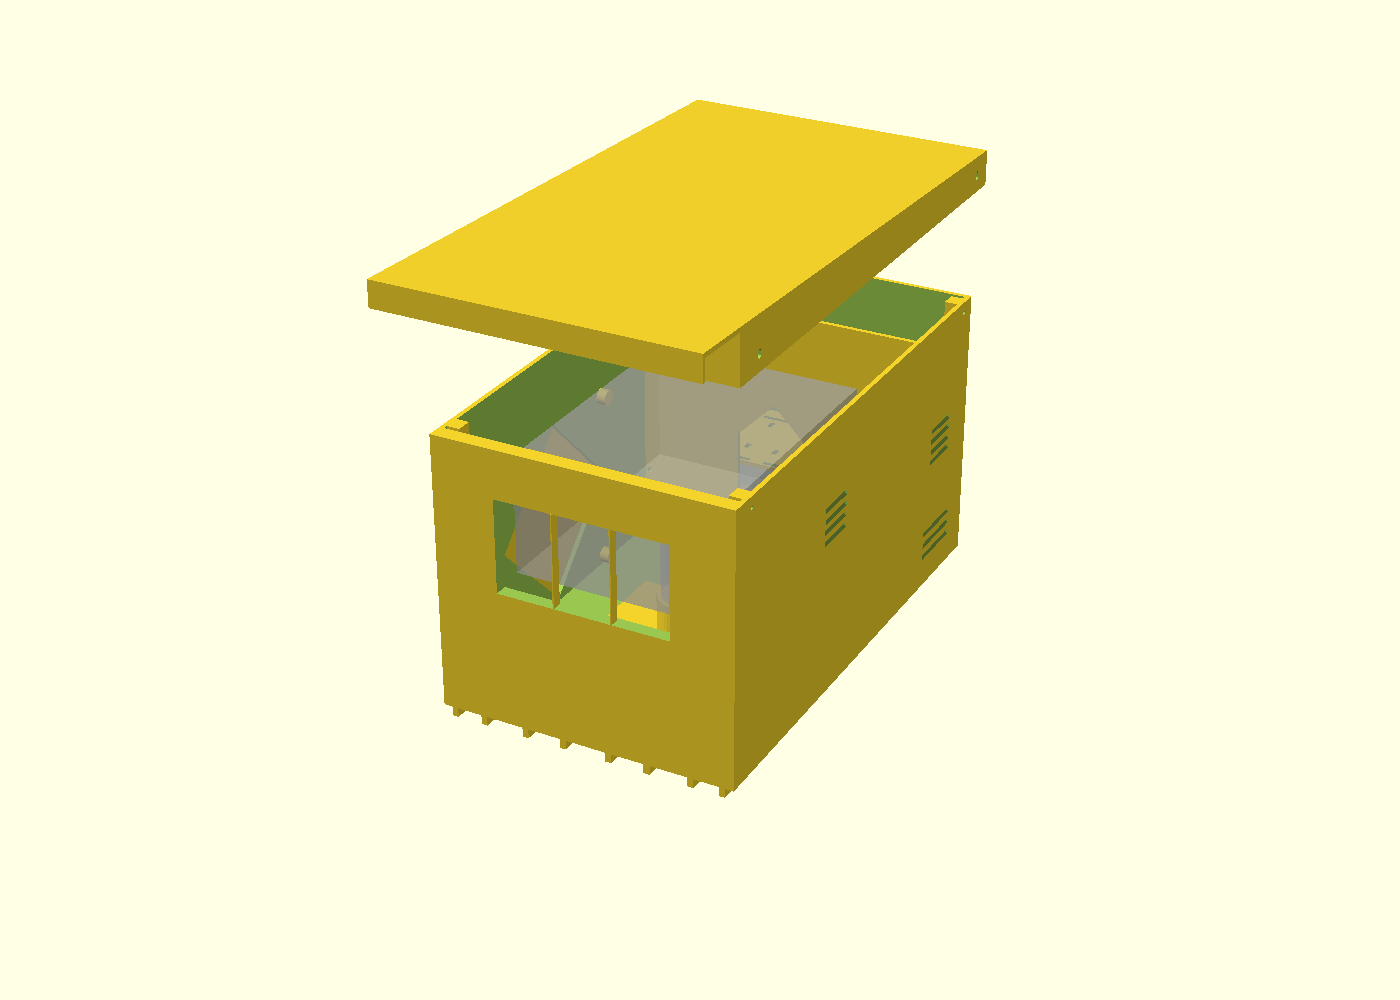
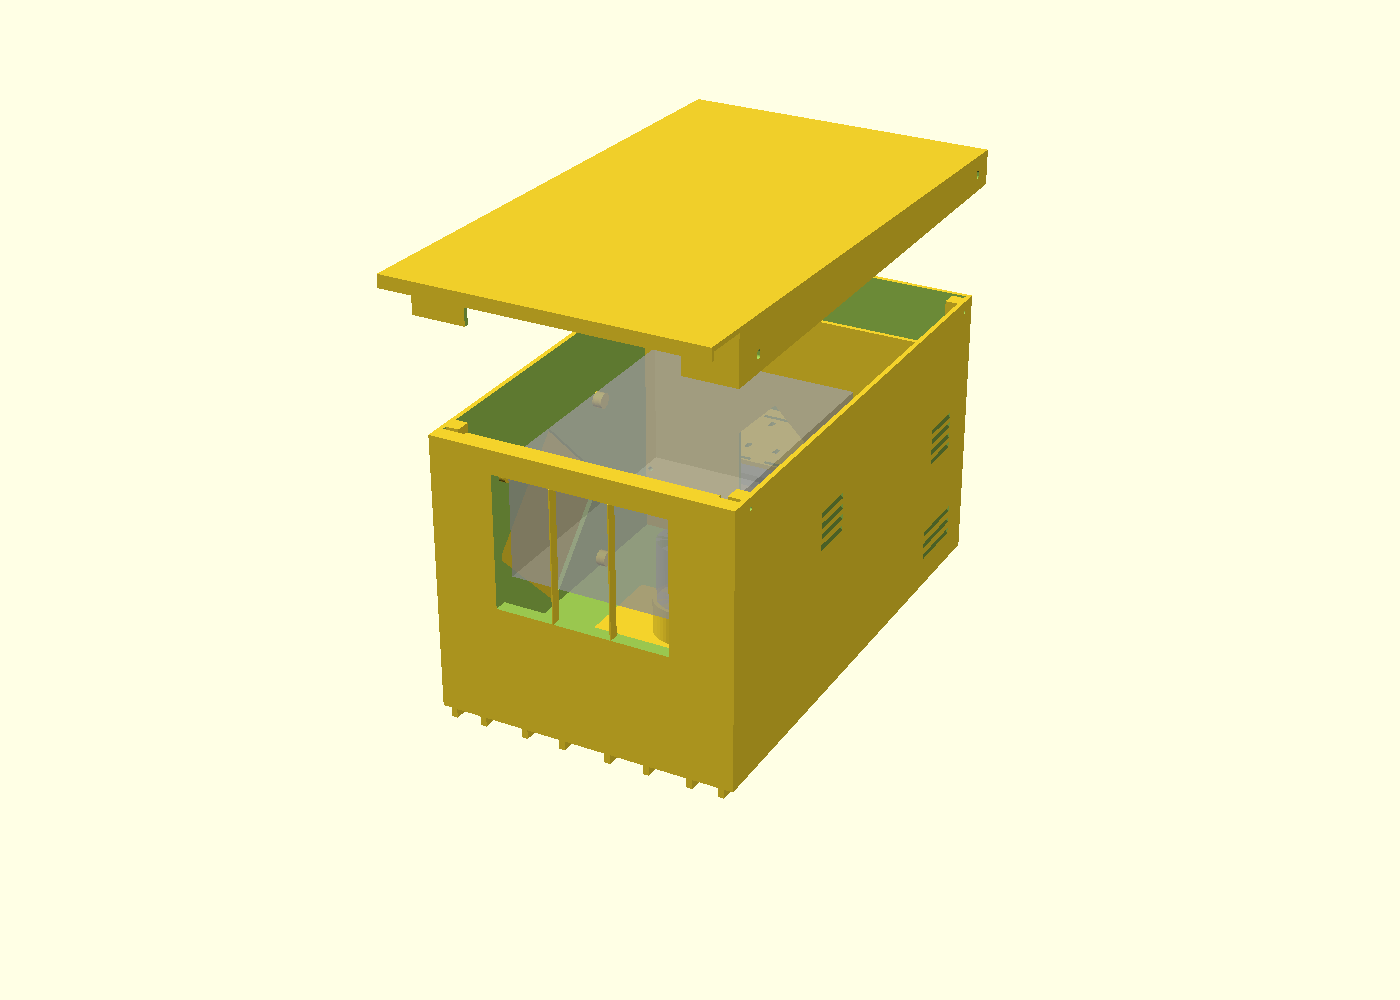
fix: single version, tripod at computed centre of mass, hatch lock; docs
Pi package now 0.8.1 to match the tag. Adds bring-up checklist, ordering
plan with rough costs, V-0 filament and cord-routing guidance, and
refreshed previews.

Changed region(s): [[0.3379, 0.465, 0.4914, 0.651], [0.2457, 0.279, 0.5221, 0.403], [0.5529, 0.372, 0.6143, 0.403]]

diff --git a/CLAUDE.md b/CLAUDE.md
@@ -20,7 +20,11 @@ scripts/publish.sh            # create a PRIVATE GitHub repo with gh and push
 
 Single part by hand: `openscad -o out.stl -D "part=\"base\"" -D "tile=\"front\"" projector_pi_case.scad`
 
-`part` = assembly | base | lid | window_frame | pedestal | hatch_cover | power_shelf | sled. `sled` = pi3 | pi4 | pi5 | zero2w (assembly shows it; `make parts` builds all four). `tile` = all | front | rear (base and lid only). STLs are not committed: CI attaches them to a GitHub Release for each `v*` tag; `stl/` is regenerated output.
+`part` = assembly | base | lid | window_frame | pedestal | hatch_cover | power_shelf | sled | ir_holder | vent_cap | intake_cap | fit_coupon. `sled` = pi3 | pi4 | pi5 | zero2w (assembly shows it; `make parts` builds all four). `tile` = all | front | rear (base and lid only). STLs are not committed: CI attaches them to a GitHub Release for each `v*` tag; `stl/` is regenerated output.
+
+Versioning: one version for the whole repo. `pi/package.json` version = the git tag without the `v` (e.g. 0.8.1 / `v0.8.1`); `videofx-update` compares them. Bump both together.
+
+Docs: `docs/PRINTING.md` (sliced times, order), `docs/BOM.md` (quantities, ordering, cost), `docs/ASSEMBLY.md`, `docs/WIRING.md`, `docs/AIMING.md`, `docs/BRINGUP.md` (hardware test checklist), `docs/DESIGN_LOG.md`. Keep them in step with model changes; re-slice for PRINTING.md with the PrusaSlicer CLI (`--printer-profile "Original Prusa i3 MK3S & MK3S+" --print-profile "0.20mm SPEED @MK3" --material-profile "Prusament PETG"`, datadir seeded with the bundled PrusaResearch.ini).
 
 Toolchain on the owner Mac: OpenSCAD snapshot (`brew install --cask openscad@snapshot`; the stable cask is an old Intel build; it aborts with "Incompatible processor" inside Claude Code's sandbox, so run it unsandboxed), PrusaSlicer, two Prusa i3 MK3S (bed 250 x 210 x 210).
 
@@ -49,6 +53,7 @@ Print orientation is baked into the `part` dispatch at the bottom (lid flipped r
 ## Design decisions (short; details in docs/DESIGN_LOG.md)
 
 - Rain-proof, not sealed: a sealed box overheats the projector. Airflow: intake slots through the raised floor and 45 deg louvers; two 40 mm PWM fans on the right wall (`fans`: projector zone, and the Pi/brick zone above the shelf, fed through vents on the shelf's low-voltage side). The Pi runs fan curves from DS18B20 sensors and shuts the projector off on over-temperature. `fan_body()` is in the aim sweep and the `fans` clash check.
+- Visitor safety: cords routed off paths or under cord covers, plug joints in weatherproof boxes, optional hatch lock screw (`hatch_lock`), flame-retardant V-0 PETG recommended for the power shelf.
 - Ground-standing on 6 mm feet so the case drains underneath; drains exit into the gap under the floor. Also tripod-mountable: 3/8-16 (`tripod_y`, near the estimated centre of mass) and 1/4-20 (`tripod_y2`) inserts in a pad flush with the ribs. Move `tripod_y` once the real centre of mass is known.
 - Projector on a commercial mini ball head (1/4-20). The body clears +/-15 deg on one axis and +/-10 deg on both (`aim_max`, `aim_combo`); the light cone (`light_cone`, `throw_ratio` 1.4, `lens_offset`) clears the window, frame and visor at +/-12 deg tilt (`cone_tilt`), which is the real limit. Plugs on the projector's rear (`projector_ports`, `port_depth` 15 for right-angle plugs) size `rear_gap`. The window is a 4 x 5 in pane set as high as the base allows (`pane_top_clear`), with the lid's front skirt notched over it and a short visor/lip, because upward tilt is the main use. The low pivot swings the top corners about 20 mm, which sizes `front_gap` and `rear_gap`. Both at 15 deg would push `base_front` past 250 mm. Printed ball joints were rejected (creep under load). Mini heads are rated about 1.5 kg; the projector is about 0.72 kg.
 - Lid: 4x M3 screws go sideways through the skirt (`lid_screw_ys`, `lid_screw_z`) into 45 deg-underside blocks in the base wall tops. The roof has no penetrations; the lid prints roof-down, so nothing can stand proud of the roof. Slots let the lid be pressed onto the gasket before tightening.
@@ -76,10 +81,12 @@ Print orientation is baked into the `part` dispatch at the bottom (lid flipped r
 
 ## Next steps
 
-1. Owner measures the projector and brick; update parameters; rerun `make parts` and `scripts/check_clash.sh`.
-2. Print pedestal, window frame, hatch cover; check ball head seat, pane fit, keyholes.
-3. Print tiles, dry-fit, then wire (see safety).
-4. Design proper seam joints; tune fan/louver positions against the real vents; Pi playback setup.
+Work through `docs/BRINGUP.md` in order:
+1. Print `fit_coupon`; tune insert/pilot/keyhole/pane tolerances.
+2. Owner measures the projector (size, lens, throw ratio, offset, ports), brick and ball head; update parameters; rerun `scripts/check_clash.sh` (body, plugs and light cone) and `make parts`; re-slice for PRINTING.md.
+3. Bench-test the Pi image (CEC, seam time, Amp4 power, PIR, sensors, Matter, DMX, update/rollback, power cut).
+4. Print the rest, assemble per `docs/ASSEMBLY.md`, wire per `docs/WIRING.md`, then heat, rain and night tests.
+5. Later: multi-projector sync (deferred), tune fan/louver positions against the real projector vents.
 
 ## Safety
 

diff --git a/docs/BRINGUP.md b/docs/BRINGUP.md
@@ -1,0 +1,39 @@
+# Hardware bring-up checklist
+
+Everything below has only been tested in software. Work through it on the bench before the case goes outside, and record results in the design log. Each line has a pass criterion. If one fails, the "if not" column says what changes.
+
+## Before the big prints
+
+| # | Test | Pass | If not |
+|---|---|---|---|
+| 1 | `fit_coupon`: heat-set inserts (3/8, 1/4, M4, M3), screws in the M3/M2.5/M2 pilots, M4 bolt in the keyhole, acrylic in the slot | Each fits snug, with no cracking and no slop | Adjust `insert38_d`, `insert_d`, `m4_insert_d`, `m3_insert_d`, `clearance`, re-export |
+| 2 | Measure the projector: size, lens height and left/right offset, tripod socket position, vents, **where the HDMI and power ports are** | Within a few mm of `proj_w/d/h`, `lens_z`, `lens_x`, `mount_x/y`, `port_band` | Update the parameters, run `scripts/check_clash.sh` |
+| 3 | Throw ratio and offset: project onto a wall from a measured distance, and measure image width and how far the bottom edge sits above the lens | Throw ratio about 1.4, offset recorded | Set `throw_ratio`, `lens_offset`; check the `light-cone` result |
+| 4 | Brick label: volts, amps, polarity, input current, inlet type (C7/C5/C13) | 12-24 V and enough amps for projector + Amp4 + fans | Bigger brick; fill in the fuse table in WIRING.md |
+| 5 | Ball head height and where the lock knob sits | Knob reachable through the hatch diamond | Change `ball_head_h`; move the hatch (`hatch_zc`) |
+
+## Pi on the bench (before it goes in the case)
+
+| # | Test | Pass | If not |
+|---|---|---|---|
+| 6 | Flash the image (or `install.sh`), first boot | One extra reboot, then `videofx-xxxx.local` answers and the name shows as VideoFX-XXXX | See `pi/README.md` troubleshooting |
+| 7 | Storage protection: `videofx-maint status`, then pull the power mid-upload | Overlay on, data partition mounted, settings intact after the cut | Leave protection off for Halloween; report it |
+| 8 | Amp4 powers the Pi (especially a **Pi 5**) at full volume | No undervoltage warnings (`vcgencmd get_throttled` = 0x0) | Use a Pi 4B sled, or a separate 5 V supply |
+| 9 | HDMI-CEC with your projector: power on/off from the web page | Projector wakes and sleeps; page says "CEC supported" | Use `relay-ir` (relay + IR LED), learn the remote's code |
+| 10 | Scare seam: calm clip to scare and back, then `journalctl -u videofx-player \| grep seam` | No visible black frame (log shows under about 100 ms) | Re-encode per the README; try `--hwdec=v4l2m2m-copy` on Pi 3 / Zero 2 W |
+| 11 | Video decode: your AtmosFX files at their native resolution | Smooth, CPU under about 70% | Transcode with the README's ffmpeg commands |
+| 12 | PIR: walk toward it from the street side | Triggers at the distance you want, not from passing cars | Adjust the sensor's sensitivity/time pots; aim the case |
+| 13 | Fans and sensors: page shows both RPMs and both DS18B20 temperatures; unplug a fan | RPM readings, fan-failure alarm fires | Check wiring against the pin table |
+| 14 | Pairing: add to Apple Home ("Add Anyway"), toggle power, fire a scare from an automation | All four endpoints appear and work | See `pi/README.md` Matter notes |
+| 15 | DMX: send from QLC+/xLights/FPP (unicast) to the Pi's universe | Page shows the source; power, clip and volume follow | Check universe/address and UniFi multicast settings |
+| 16 | Update and rollback: `videofx-update --tarball` with the release tarball, then `--rollback` | Both complete and the page shows the right version | Report it |
+
+## In the case
+
+| # | Test | Pass | If not |
+|---|---|---|---|
+| 17 | Wiring checklist in WIRING.md, then power up | Everything in its "Before first power-up" list passes; the GFCI trips cleanly | Stop and fix before continuing |
+| 18 | Heat: run for 2 hours with the lid on, on a warm evening | Projector zone under about 45 C, no throttling, fans below full speed | Check airflow and screens; lower the fan curve thresholds |
+| 19 | Aim: full range per AIMING.md | Image clears the window at your aim; nothing rubs | Tilt the case (tripod or shim) instead |
+| 20 | Rain: 10 minutes of garden hose "rain" from above and the sides, running | Nothing wet inside beyond a few drops at the louvers | Silicone the leaks; do not run in heavy rain until fixed |
+| 21 | Night check from the street | No glow from the vents; cords routed away from paths or covered | Paint the inside black; reroute the cords |

diff --git a/docs/AIMING.md b/docs/AIMING.md
@@ -28,14 +28,14 @@ Past that, the projector hits the window frame or the Pi divider. Get the case c
    - On the ground: firm, level ground with all feet down, out of puddles, because air comes in through the floor. Turn the whole case until the image lands roughly on target.
    - On a tripod: screw it on with the 3/8" or 1/4" thread under the floor, and do the coarse aim with the tripod head. Use a tripod rated for at least 3 kg, and weigh it down against wind.
    - Either way, keep it low and tilt the image up, so people walking past aren't looking into the lens (a bright "hot spot").
-2. **Take off the hatch cover.** Lift it straight up about 8 mm, until the bolt heads line up with the wide ends of the keyholes, then pull it straight out. Don't pry it.
+2. **Take off the hatch cover.** If the optional lock screw is fitted (bottom centre of the cover), remove it first. Lift it straight up about 8 mm, until the bolt heads line up with the wide ends of the keyholes, then pull it straight out. Don't pry it.
 3. **Support the projector.** Put one hand through the hatch and hold the projector before loosening anything. It weighs about 0.7 kg and will flop if the head is loose.
 4. **Loosen the ball head** lock knob just enough that the projector moves with some friction.
 5. **Aim.** Move the projector while watching the image. Keep it inside the ranges above. If it touches anything inside, stop: turn or shim the case instead.
 6. **Check the edges.** A dark or cut-off corner means the light cone is clipping the window. Bring the image back toward centre and move the case instead.
 7. **Lock the ball head** firmly while still holding the projector. Let go, wait a minute, and check the image hasn't drooped.
 8. **Focus.** Use the projector's focus control if you can reach it through the hatch. If you can't, remove the four lid screws on the sides of the lid and lift it off.
-9. **Hang the cover.** Line up the wide ends of the keyholes over the four bolt heads, press it flat against the foam, and let it drop about 8 mm so it seats. It should sit flush and not pull straight out.
+9. **Hang the cover.** Refit the lock screw if you use one. Line up the wide ends of the keyholes over the four bolt heads, press it flat against the foam, and let it drop about 8 mm so it seats. It should sit flush and not pull straight out.
 10. **Final check.** The fan and louvers are clear and the power cord hangs in a drip loop below the gland.
 
 ## Troubleshooting

diff --git a/docs/BOM.md b/docs/BOM.md
@@ -51,6 +51,7 @@ Quantities for one case. Printed parts and filament are in [PRINTING.md](PRINTIN
 | M4 heat-set insert | 4 | Hatch studs |
 | M3 heat-set insert | 1 | Sled thumbscrew |
 | M4 x 12 button-head | 4 | Hatch keyholes |
+| M3 x 12 (security screw) | 0-1 | Optional hatch lock (`hatch_lock`), for public-facing setups |
 | M3 x 12 (pan head, or pin-Torx security) | 4 | Lid, through the skirt |
 | M3 x 12 | 4 | Base seam, through the divider |
 | M3 x 10 self-tapping | 4 | Pedestal to floor |
@@ -65,9 +66,39 @@ Quantities for one case. Printed parts and filament are in [PRINTING.md](PRINTIN
 | Item | Notes |
 |---|---|
 | PETG or ASA, about 1.3 kg, "Go Away Green" | Plus a little for reprints |
+| Flame-retardant PETG (UL 94 V-0, e.g. Prusament PETG V0), about 0.1-0.3 kg | Recommended for `power_shelf` (and `base_rear`, if the colour works): mains and the brick sit there |
 | Foam tape, 2 mm (lid rim) and 1.5 mm (hatch) | |
 | Neutral-cure outdoor silicone | Base seam, pane, PIR dome |
 | Insect screen, mosquito grade (about 18 x 16 mesh) | Caps and behind the fans |
 | Matte black spray paint | Inside of the case, against light glow |
 | VHB tape, velcro strap, zip ties, foam plug for the chimney | |
 | 8 mm tent stakes | 4, optional |
+
+## Ordering plan (for Halloween)
+
+Printing takes 2 to 3 days on two printers and bring-up about a week, so order everything **by about October 5**. The slow items:
+
+| Item | Typical lead time | Order |
+|---|---|---|
+| HiFiBerry Amp4 | 1-2 weeks (often ships from Europe; check a local reseller) | First |
+| Cut-to-size acrylic | 3-10 days | First |
+| Noctua fans, DS18B20, PIR, relay/IR parts | 2-5 days | With the Amp4 |
+| 3/8-16 heat-set insert | 2-5 days (a less common size) | With the fasteners |
+| Filament (2 x 1 kg), fasteners, wire, fuses, silicone, screen | 1-3 days | Now |
+
+## Rough cost (excluding the projector)
+
+These are estimates from typical retail prices, not quotes; check current prices.
+
+| Group | Rough USD |
+|---|---|
+| Pi (one board) + microSD | 50-90 |
+| Amp4 + stacking header | 45-60 |
+| Speakers (outdoor pair) + wire | 50-120 |
+| Ball head + stud | 15-35 |
+| Fans (2x Noctua) + sensors + PIR | 40-55 |
+| Power parts (cord, gland, IEC, fuses, lever nuts, wire, connection box) | 35-60 |
+| Acrylic pane | 10-25 |
+| Inserts, screws, foam, silicone, screen, paint | 30-50 |
+| Filament, about 1.3 kg | 30-60 |
+| **Total** | **about 300-550** |

diff --git a/docs/DESIGN_LOG.md b/docs/DESIGN_LOG.md
@@ -52,6 +52,7 @@ Chronological record of decisions, including dead ends, so the reasoning survive
 - **Light cone.** The body sweep never checked the light itself. Modelling the image pyramid for a 1.4:1 16:9 projector showed the 60 mm-tall window clipped past +8 deg of tilt, and only +4 deg with an upward-offset lens: bad, since tilting up is the main use. Fixes, each measured: a 4 x 5 in pane placed as high as the base rim allows (frame screws moved to its sides so the frame hugs the pane), the lid's front skirt notched over the window (its bottom edge sat 2 mm into the window), and a 30 mm visor with a 4 mm drip lip (the 12 mm lip was the next obstruction). Result: +/-12 deg tilt with a centred lens (check: `light-cone`), +10/-18 deg with a fully offset one.
 - **Plugs behind the projector.** The 26 mm rear gap had no room for plugs. A keep-out for right-angle plugs (15 mm) in the aim sweep needed a 32 mm rear gap; the front gap came down from 30 to 26 mm without clipping anything (the lens now sits nearer the window), so `base_front` is 243 mm, 7 mm under the bed.
 - **Slicing.** PrusaSlicer's CLI with the bundled MK3S profiles gives about 82 h and 1.25 kg in total, 37 h of it `base_front` (27 h at 0.30 DRAFT). A fit coupon (1.5 h) comes first. STLs moved from git to Release assets because every rebuild added megabytes of history.
+- **Third review.** One version for the repo (the Pi package said 0.1.0 under tag v0.8.0, which would confuse `videofx-update`). The tripod insert moved from y 12 to 5 after computing the centre of mass from part centroids and slicer weights (about 2.6 kg in all). Added an optional hatch lock screw into the solid wall/floor corner, V-0 filament for the power shelf, cord routing for trick-or-treaters, an ordering plan with rough costs, and a bring-up checklist. Colima (open-source Docker) runs the pi-gen image build on the Mac.
 - **Clash script.** The OpenSCAD snapshot uses the manifold backend, which never prints "Volumes: 1", so zero-volume contact (the shelf on its ledges) read as a clash. The script now measures intersection volume. It also used to report CLASH when OpenSCAD failed to run.
 - **Bugs hit:** shell `brace expansion` failing under sh (use bash), top-level variable used before definition (`lid_seam`/`yfl`), phony `make stl` clashing with the `stl/` directory (target is `parts`), tiny preview renders from `--viewall`.
 

diff --git a/README.md b/README.md
@@ -10,7 +10,7 @@ Parametric [OpenSCAD](https://openscad.org) design for a ground-standing, rain-p
 - Anchors: sealed stake tubes inside the four corners take 8 mm tent stakes, driven from inside with the lid off. With the lid screwed on (use security screws) they can't be pulled, which deters theft and holds the case against wind.
 - Sits on the ground on eight 6 mm ribs running front to back; the channels between them drain rain, feed intake air and carry the speaker wire.
 - Projector rides on an internal ball head (pedestal takes a 1/4-20 stud). Usable aim +/-15 deg pan and +/-12 deg tilt, +/-10 deg both at once, with the image clearing the window (checked by `scripts/check_clash.sh` for a typical 1.4:1 projector). For more, tilt the whole case: tripod head or a shim.
-- Tool-free aim hatch (a 45 deg diamond, so it prints without supports) on the left wall: lift the cover about 8 mm off its four keyholes, loosen the ball head, aim, lock. Lid stays on.
+- Aim hatch on the left wall, a 45 deg diamond so it prints without supports. Tool-free, unless you fit the optional lock screw for public-facing setups: lift the cover about 8 mm off its four keyholes, loosen the ball head, aim, lock. Lid stays on.
 - Sloped lid with no holes in the roof (it screws on through the side skirt), a front visor, drip lip and a 45 deg scarf joint at the seam (the front half laps over the rear like a shingle); 45 deg louvers shed rain; intake through slots in the raised floor; two 40 mm PWM exhaust fans on the right wall (projector zone, and Pi/brick zone above the shelf, which has vents on its low-voltage side), speed-controlled by the Pi from temperature sensors, with over-temperature shutdown.
 - Acrylic lens window in a rebate, held by a printed frame.
 - Pi compartment behind a divider. The Pi rides on a removable sled: one per generation (Pi 3B/3B+, 4B, 5, Zero 2 W), located by two floor pins and held by one M3 thumbscrew. Lid off, shelf out, sled lifts out; a 50 x 40 mm pass-through carries HDMI and projector power.

diff --git a/docs/PRINTING.md b/docs/PRINTING.md
@@ -6,6 +6,7 @@ Two Prusa i3 MK3S (bed 250 x 210 x 210 mm), Prusament PETG (or ASA, which fades 
 
 - Print profile **0.20mm SPEED @MK3** for everything. The window's snap-out ribs leave a gap of one layer (`layer_h` = 0.2 in the model). If you print the base at another layer height, set `layer_h` to match and re-export.
 - **No supports** anywhere: every part is designed support-free.
+- Print `power_shelf` in flame-retardant PETG (UL 94 V-0, e.g. Prusament PETG V0, which has a stock profile), and `base_rear` too if you can live with its colour: mains and the brick live on the shelf in the rear compartment.
 - Rotate `base_front` and `lid_front` 90 deg so the long side runs along the 250 mm axis. `base_front` is 243 x 201 mm, so turn off the skirt or keep it tight to the part.
 - The STLs are already in print orientation (lid roof-down, hatch cover ribs-up, window frame flat, caps plate-down).
 

diff --git a/docs/WIRING.md b/docs/WIRING.md
@@ -71,6 +71,10 @@ Right of the barrier, and down to the Pi sled.
 
 Use lever-nut connectors (e.g. Wago 221) for the splice so it can be undone. Pass low-voltage wires from the shelf to the Pi through the wire slot at the back of the shelf, never across the barrier's AC side.
 
+## Cords outdoors
+
+Trick-or-treaters walk through the yard in the dark. Run the power cord and speaker wires along edges, not across paths. Where they must cross a path, use a rubber cord cover (cable ramp), or bury or stake them flat. Keep every plug joint in a weatherproof connection box, off the ground.
+
 ## Fuse sizing
 
 Fill this in from **your** labels. The example column assumes a 12 V 5 A brick, a projector drawing 3 A and a 60 W-class brick input.
